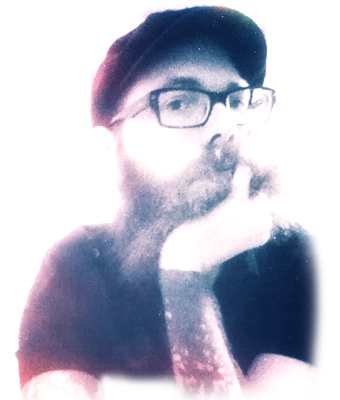
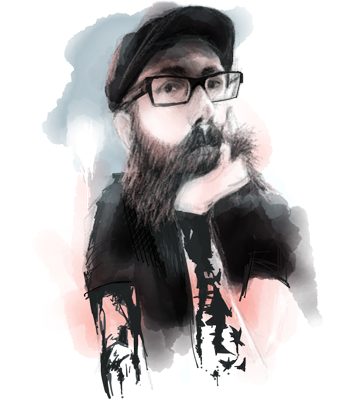
Update portrait on homepage to hand drawn image

diff --git a/index.md b/index.md
@@ -4,7 +4,7 @@ headline: "Design Faux Pas"
 subheadline: "Personal website of designer Michael Rose"
 description: "Made Mistakes is the personal website and portfolio of Buffalo NY designer &amp; illustrator Michael Rose."
 image: 
-  main: home-340x400.png
+  main: home-340x400.jpg
 tags: [Michael Rose, portfolio, blog, graphic design, web design, designer, Buffalo, New York, mmistakes]
 ---
 
